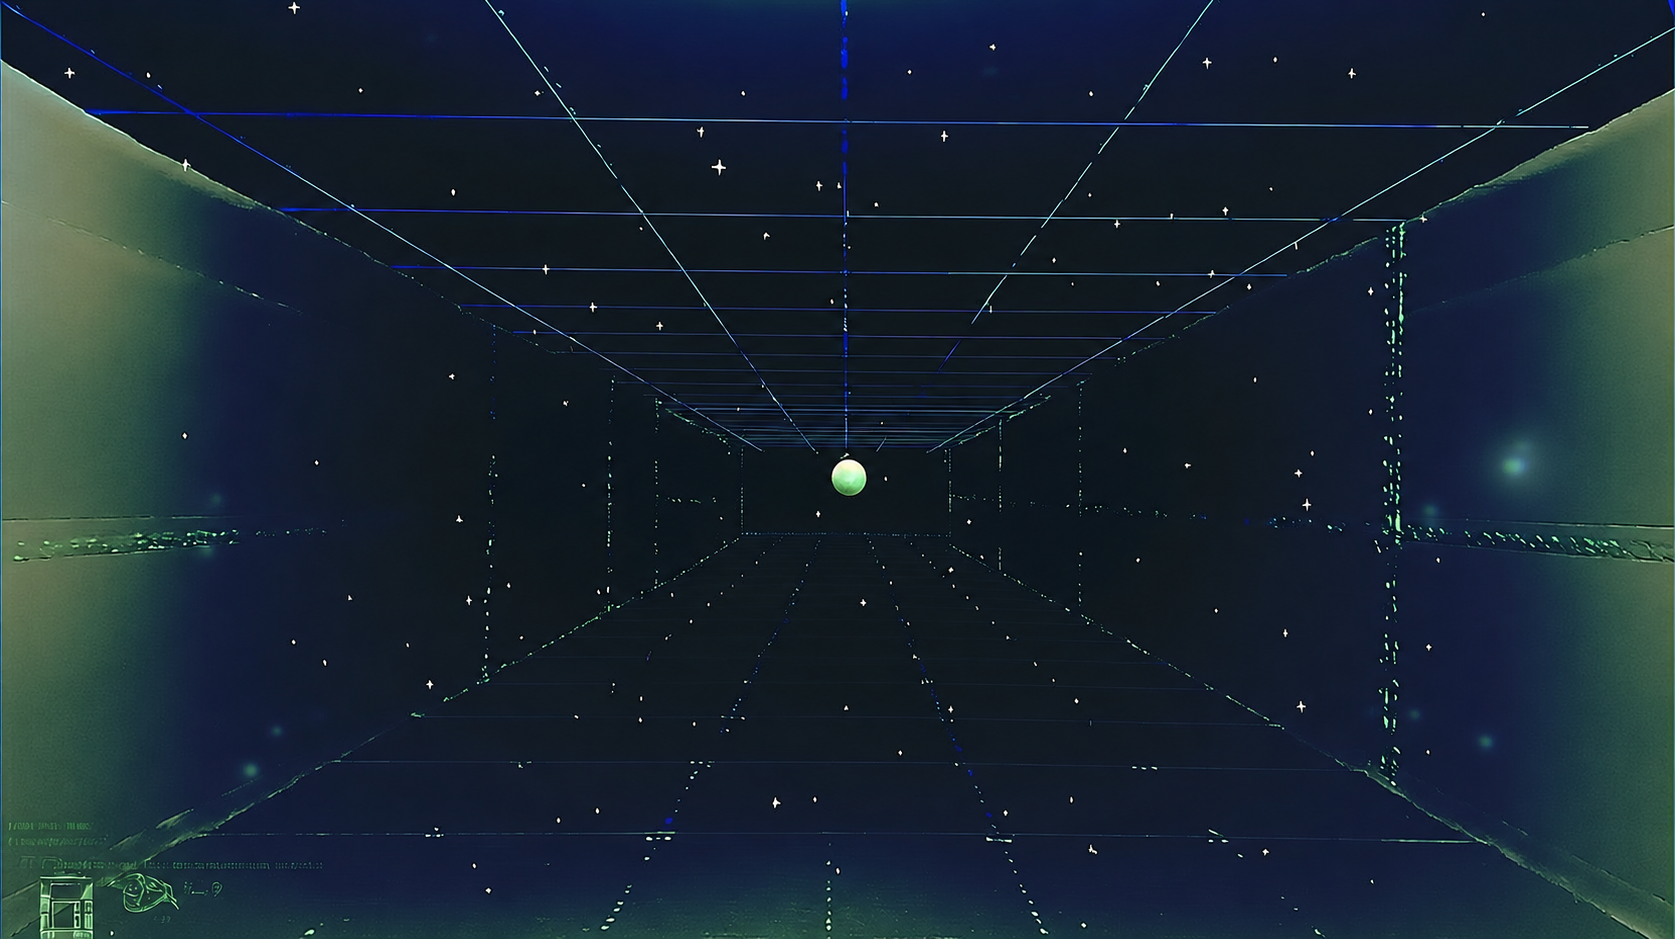
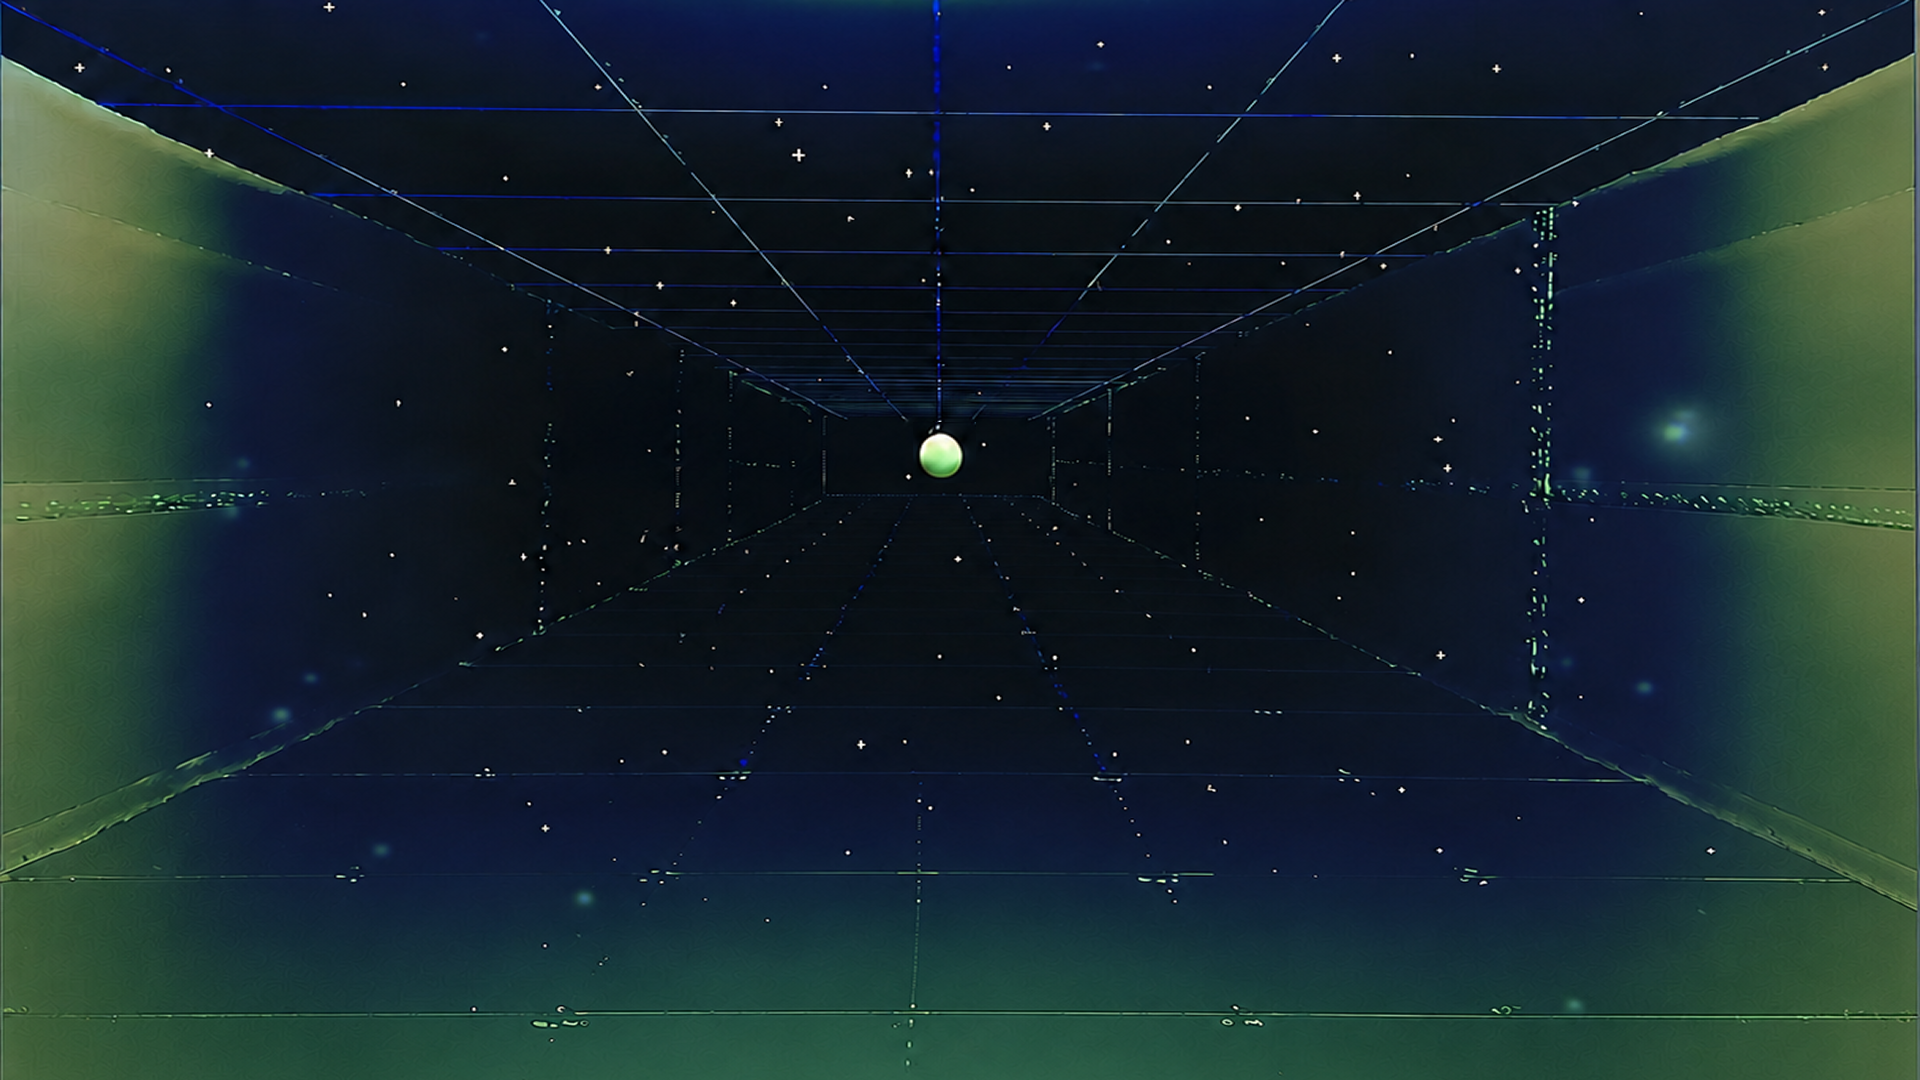
Update Godot and synthesis persona art

diff --git a/AGENTS.md b/AGENTS.md
@@ -3,7 +3,7 @@
 ## Project contract
 
 - Read `godot-codex.json` before running Godot or MCP diagnostics. It is the source of truth for the engine path, expected version, MCP endpoint, language, dimension, and test runner.
-- Use Godot 4.7.1 and GDScript, and keep the game strictly 2D, unless the user explicitly changes the technical direction.
+- Use Godot 4.7.2 and GDScript, and keep the game strictly 2D, unless the user explicitly changes the technical direction.
 - Every player-facing screen must support live Chinese (`zh_CN`) and English (`en`) switching. Use translation keys and `TranslationServer`; do not hardcode display text in gameplay or UI scripts.
 - Preserve user changes and inspect `git status` before editing. Never discard unrelated work.
 - Before art collaboration or asset/scene work on macOS, read `ARTIST_AI.md` and `docs/cross-platform-art-collaboration.md`.

diff --git a/README.md b/README.md
@@ -1,12 +1,12 @@
 # Millennium Shopping Guide / 千禧年购物指南
 
-A Godot 4.7.1 2D game prototype. The repository is designed for gameplay
+A Godot 4.7.2 2D game prototype. The repository is designed for gameplay
 development on Windows and art review/export on macOS without sharing Godot's
 generated cache.
 
 ## Quick start
 
-- Install **Godot 4.7.1**. Do not open the project with another engine version.
+- Install **Godot 4.7.2**. Do not open the project with another engine version.
 - Clone the repository and open `project.godot` in Godot.
 - Wait for the first import to finish, then run the main scene with F6/F5.
 

diff --git a/ARTIST_AI.md b/ARTIST_AI.md
@@ -20,7 +20,7 @@ macOS. Read `AGENTS.md`, `godot-codex.json`, and
 
 1. Run `git status --short --branch`. Never discard or overwrite changes you
    did not create.
-2. Confirm Godot reports version **4.7.1**.
+2. Confirm Godot reports version **4.7.2**.
 3. Pull the latest agreed branch before starting a new visual pass.
 4. Determine which asset files and scenes you own for this pass. Do not edit a
    `.tscn` that another collaborator is actively modifying.

diff --git a/templates/godot-codex/README.md b/templates/godot-codex/README.md
@@ -1,6 +1,6 @@
 # Godot + Codex workflow template
 
-复制本目录内容到一个 Godot 4.7.1 项目根目录（不要复制父目录
+复制本目录内容到一个 Godot 4.7.2 项目根目录（不要复制父目录
 `templates/.gdignore`），然后：
 
 1. 修改 `godot-codex.json`。
